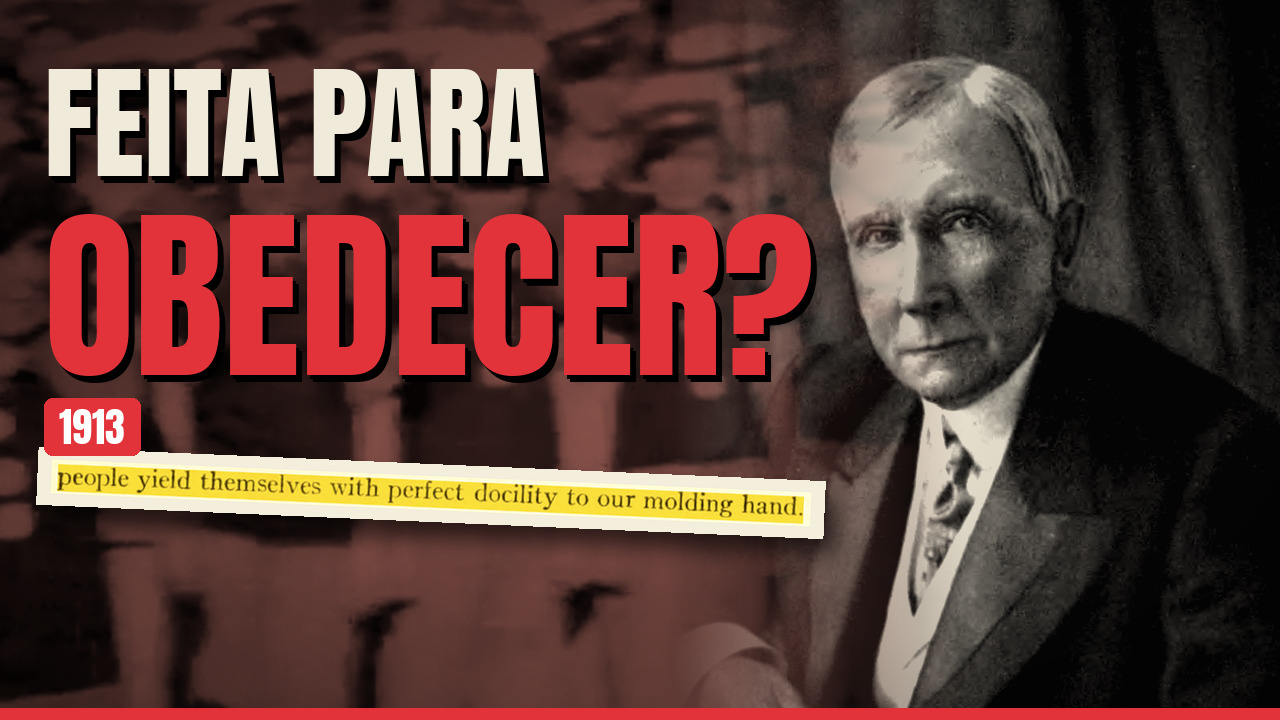
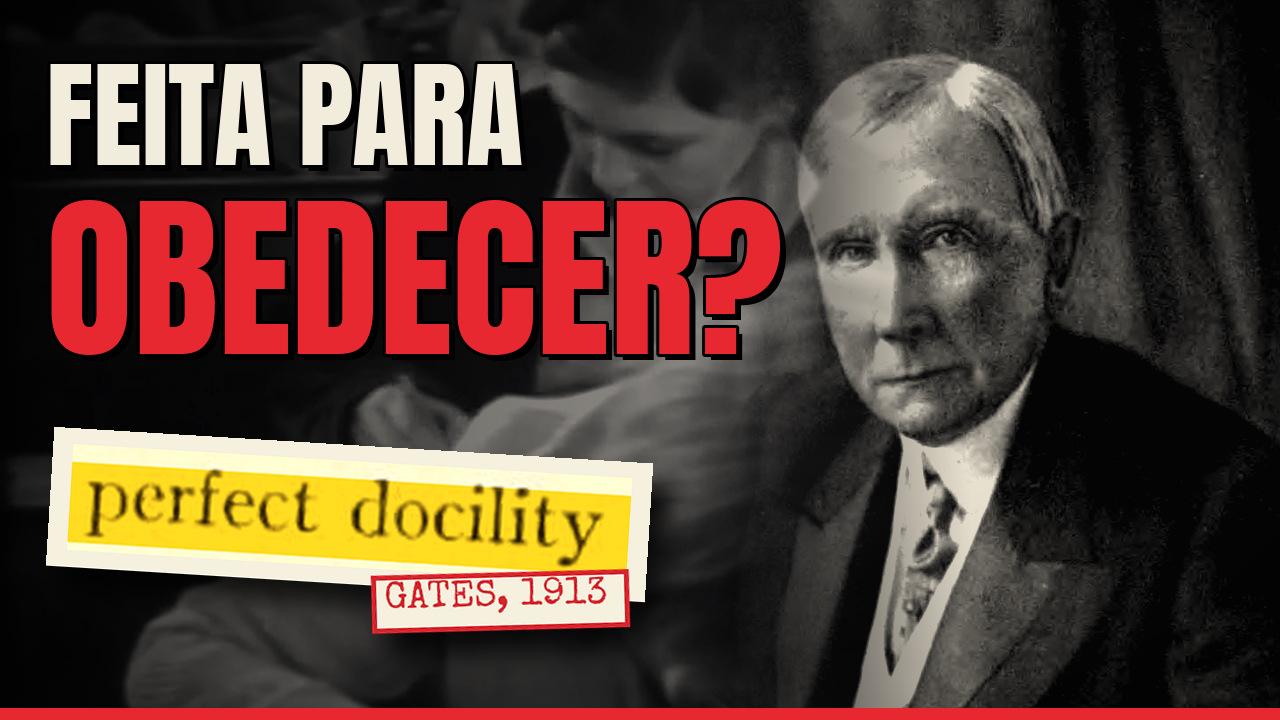
Rockefeller: capas melhoradas (fundo nítido, prova legível, carimbo fora das palavras)
Claude-Session: https://claude.ai/code/session_01MQeDi2WJVK98y41AHKQNdC

diff --git a/04-projetos/2026-11-13-rockefeller-escola/publicacao-youtube.md b/04-projetos/2026-11-13-rockefeller-escola/publicacao-youtube.md
@@ -20,8 +20,8 @@ Duas versões, as duas em 1280×720:
 O que as duas mostram:
 
 - o retrato de Rockefeller do relatório de 1915;
-- ao fundo, alunos uniformizados em fileira, de um filme de escola dos anos 1930;
-- a linha original de Gates com marca-texto amarelo ("people yield themselves with perfect docility to our molding hand") e o selo de 1913.
+- ao fundo, crianças de uma escola rural nas carteiras, do filme *And So They Live* (1940);
+- as palavras originais "perfect docility", recortadas da página de Gates com marca-texto e o carimbo "GATES, 1913".
 
 Tudo é de domínio público. Se o YouTube Studio oferecer a opção "Testar e comparar", envie as duas, e ele mostra qual dá mais cliques.
 
